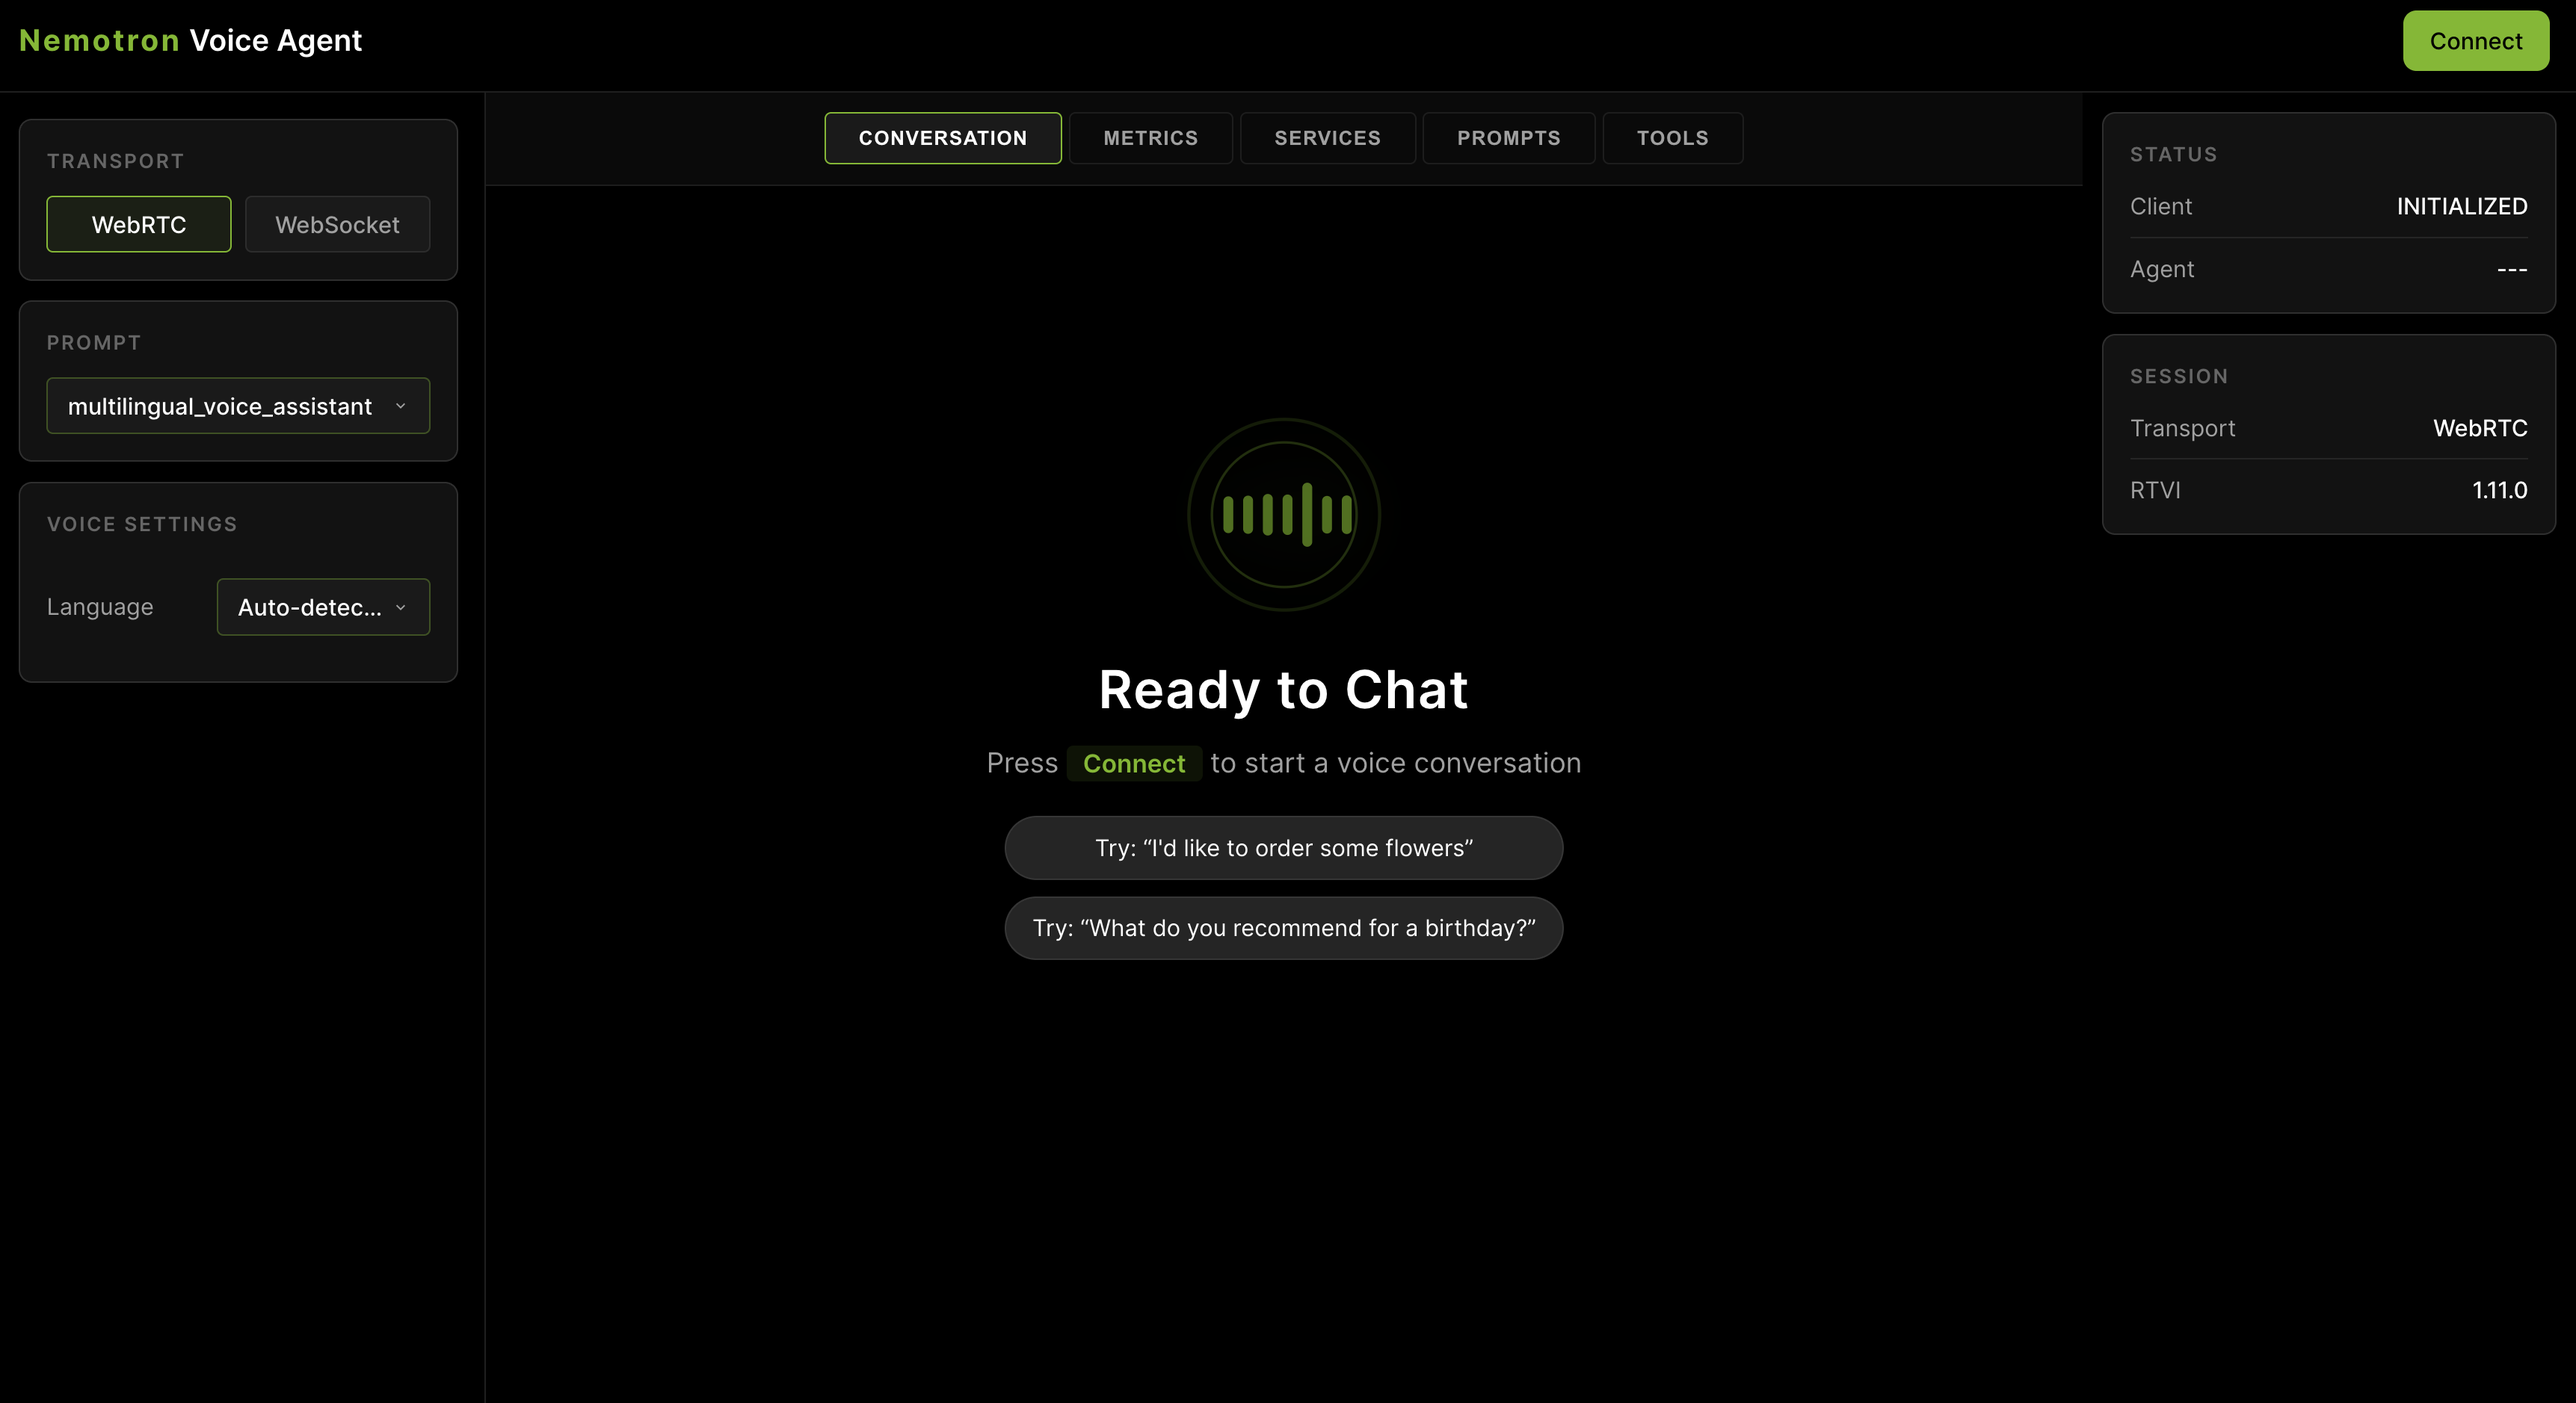
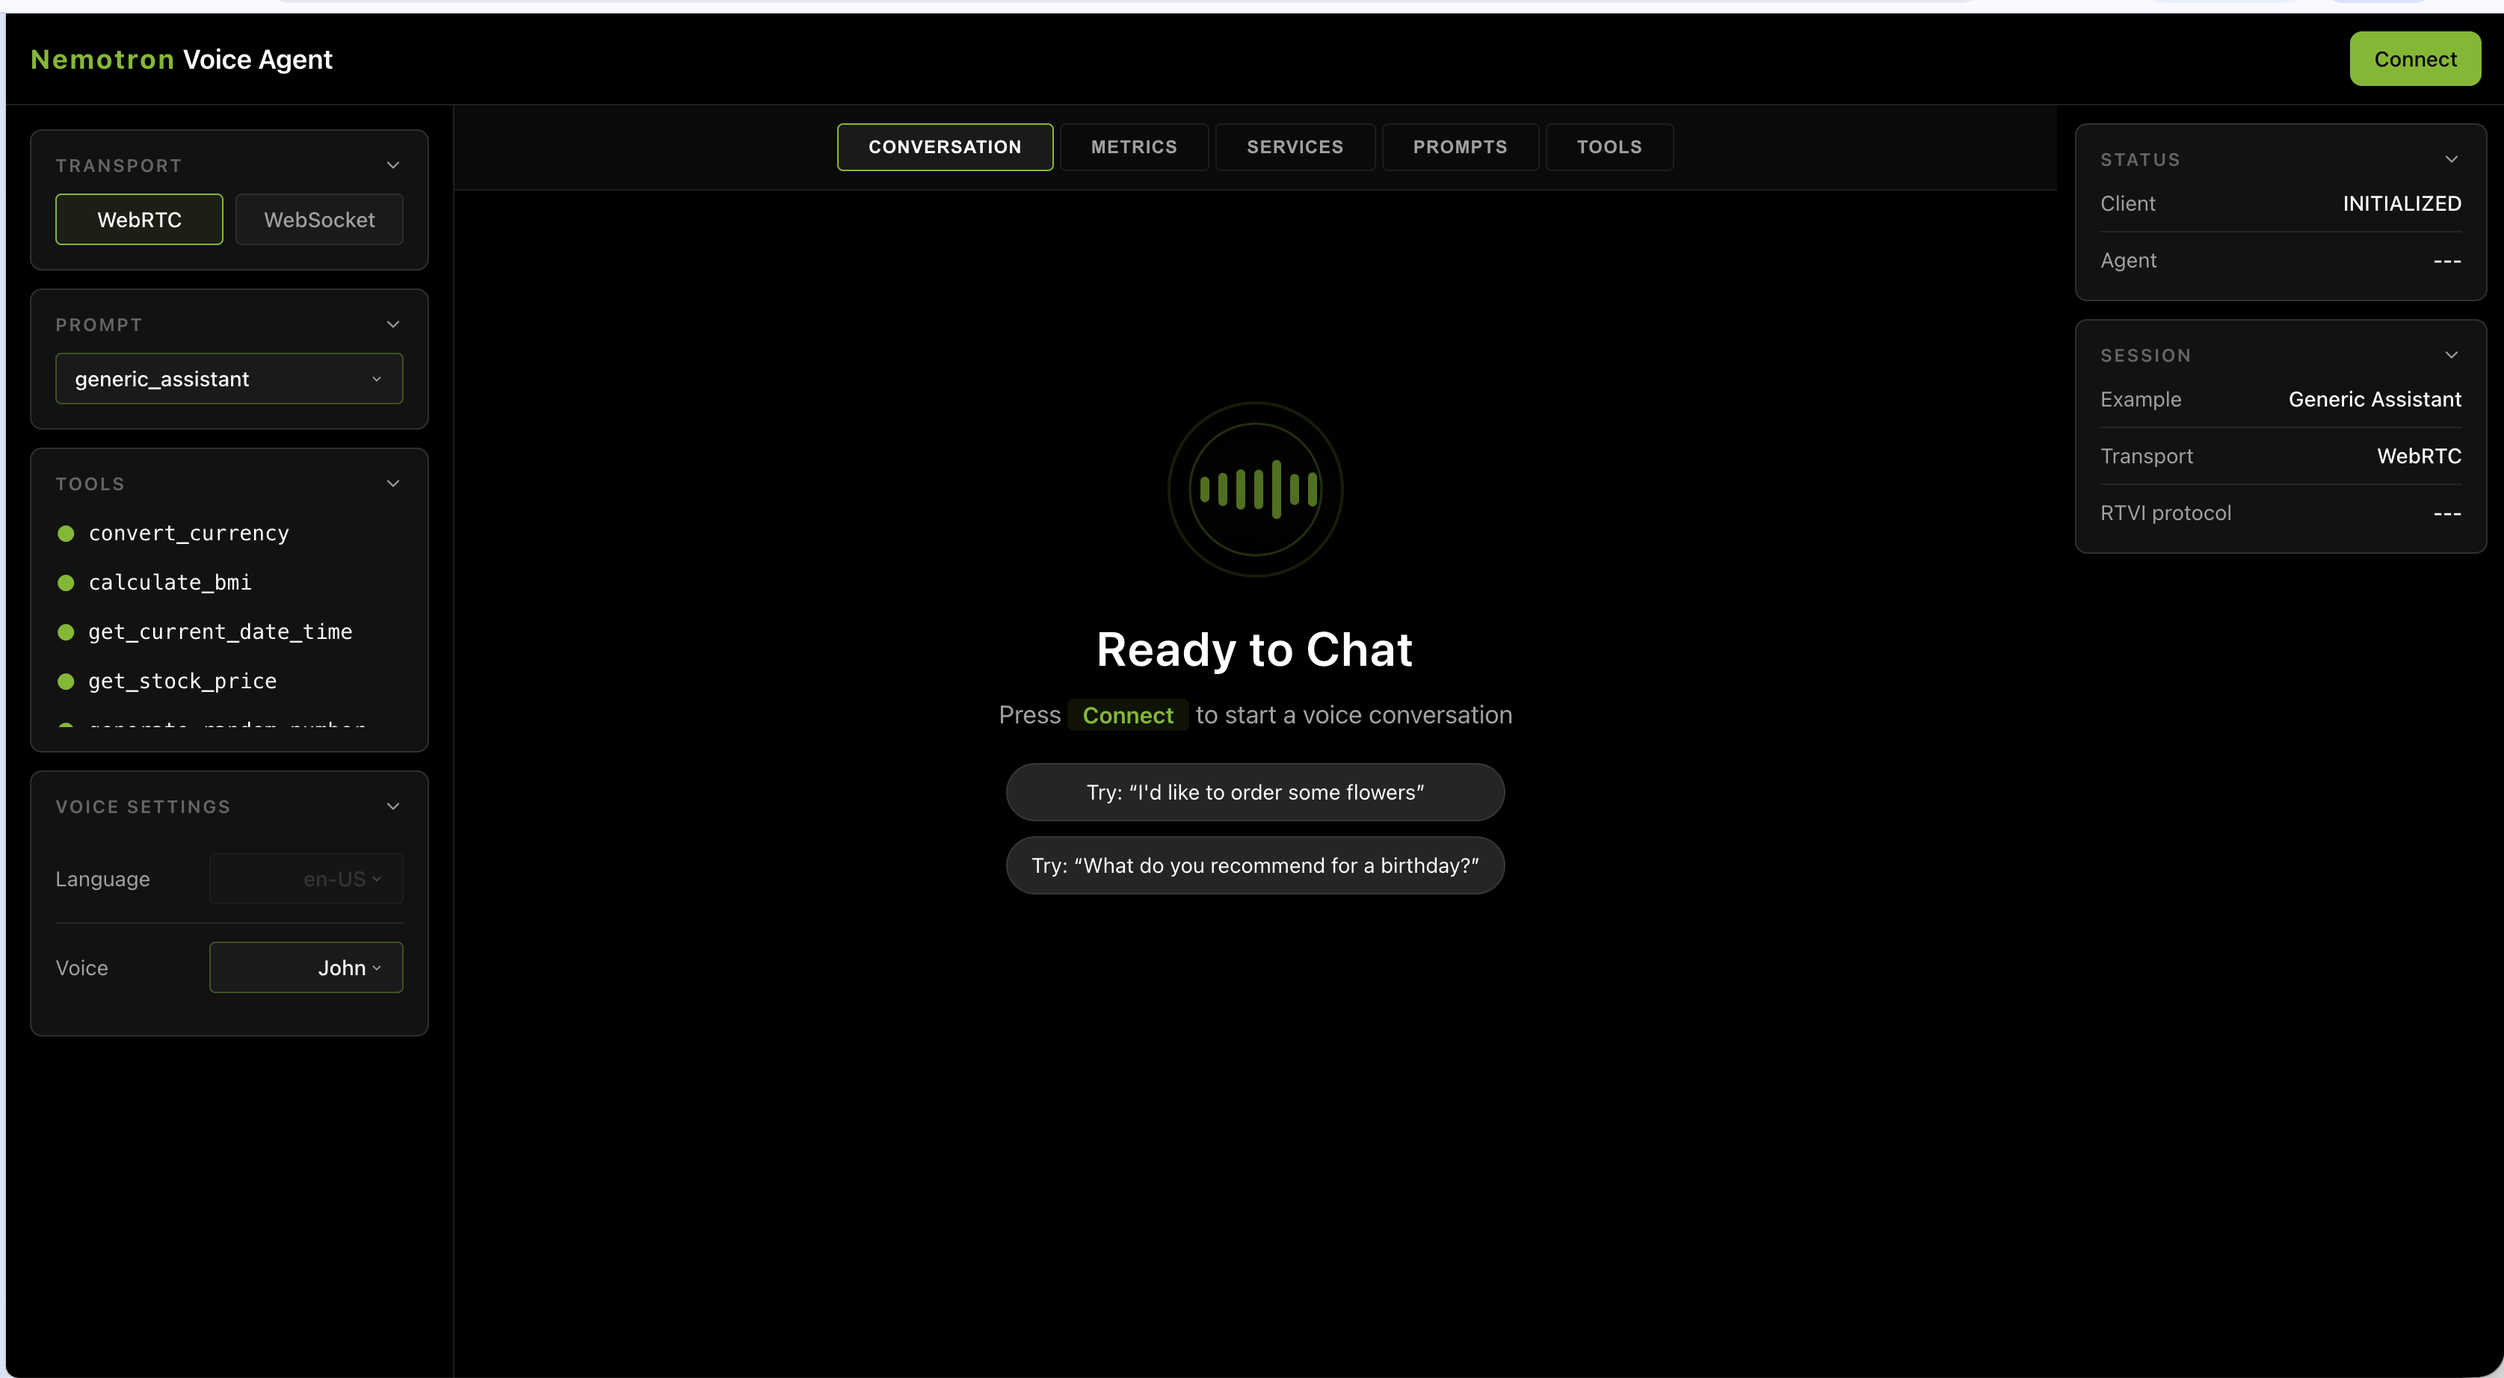
Address Brev launchable review feedback

diff --git a/README.md b/README.md
@@ -145,7 +145,7 @@ npx skills add .
 | Type | Guide | Description |
 |------|-------|-------------|
 | Tutorial | [Getting Started](docs/01-getting-started.md) | Full deployment: quick start, local GPU, DGX Spark, and the recipe matrix |
-| Launchable | [Brev Launchable](notebooks/brev_launchable.ipynb) | Deploy a `*/server` or `*/single-gpu` profile on a Brev instance. Server profiles require `NVIDIA_API_KEY` and an NGC Docker login. Single-GPU profiles use local vLLM and NeMo-Speech.cpp. Switching profiles restarts application containers but preserves the Brev VM, Jupyter, and model caches unless you enable a volume reset. |
+| Launchable | [Brev Launchable](notebooks/brev_launchable.ipynb) | Deploy a `*/server` or `*/single-gpu` profile on a Brev instance. Server profiles require `NVIDIA_API_KEY` and an NGC Docker login. Single-GPU profiles use local vLLM and NeMo-Speech.cpp. Switching profiles restarts application containers while preserving the Brev VM, Jupyter, and caches by default. `RESET_VOLUMES=True` removes Compose-managed named volumes but preserves the host Hugging Face cache. |
 | How-to | [Configuration Guide](docs/02-configuration-guide.md) | Index of all configuration and customization guides |
 | Reference | [LLM](docs/how-to/configure-llm.md) · [ASR](docs/how-to/configure-asr.md) · [TTS](docs/how-to/configure-tts.md) Models | NVIDIA model catalogs, VRAM usage and model configs |
 | How-to | [Jetson Thor](docs/03-jetson-thor.md) | Edge deployment guide for the `*/single-gpu` recipes |
